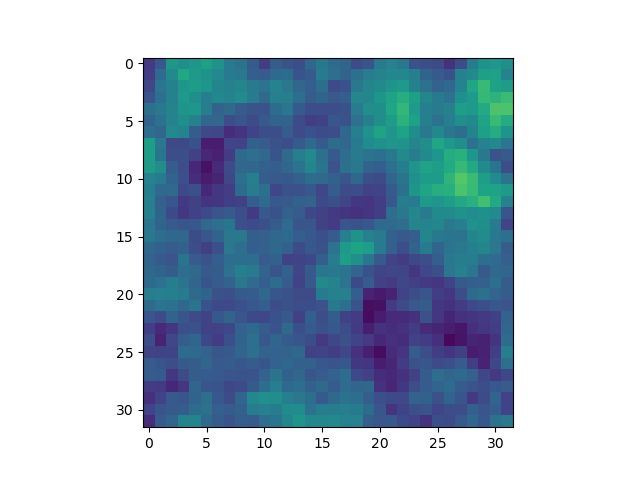
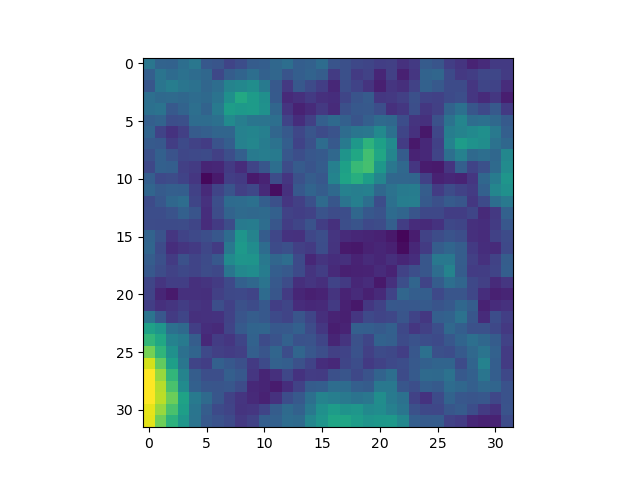
schlather eval model 2 data

Changed region(s): [[0.2188, 0.125, 0.8125, 0.9062]]

diff --git a/brown_resnick/sde_diffusion/masked/unparameterized_masked_score/evaluation/diffusion_generation/conditional_mask_data_generation.py b/brown_resnick/sde_diffusion/masked/unparameterized_masked_score/evaluation/diffusion_generation/conditional_mask_data_generation.py
@@ -154,7 +154,7 @@ number_of_replicates = 1
 seed_value = 7592
 ref_img = np.log(generate_schlather_process(range_value, smooth_value, seed_value, number_of_replicates, n))
 ref_img = th.from_numpy(ref_img.reshape((1,n,n))).to(device)
-p = .025
+p = .05
 mask = (th.bernoulli(p*th.ones(1,1,n,n))).to(device)
 
 for i in range(0, 4):
@@ -165,13 +165,13 @@ for i in range(0, 4):
                                           replicates_per_call, calls)
 
     partially_observed = (mask*ref_img).detach().cpu().numpy().reshape((n,n))
-    np.save("data/schlather/model2/ref_image2/ref_image.npy", ref_img.detach().cpu().numpy().reshape((n,n)))
-    np.save("data/schlather/model2/ref_image2/diffusion/model2_beta_min_max_01_20_random025_250_" + str(i) + ".npy", conditional_samples)
-    np.save("data/schlather/model2/ref_image2/partially_observed_field.npy", partially_observed.reshape((n,n)))
-    np.save("data/schlather/model2/ref_image2/mask.npy", mask.int().detach().cpu().numpy().reshape((n,n)))
-    np.save("data/schlather/model2/ref_image2/seed_value.npy", np.array([int(seed_value)]))
+    np.save("data/schlather/model2/ref_image3/ref_image.npy", ref_img.detach().cpu().numpy().reshape((n,n)))
+    np.save("data/schlather/model2/ref_image3/diffusion/model2_beta_min_max_01_20_random025_250_" + str(i) + ".npy", conditional_samples)
+    np.save("data/schlather/model2/ref_image3/partially_observed_field.npy", partially_observed.reshape((n,n)))
+    np.save("data/schlather/model2/ref_image3/mask.npy", mask.int().detach().cpu().numpy().reshape((n,n)))
+    np.save("data/schlather/model2/ref_image3/seed_value.npy", np.array([int(seed_value)]))
 
-    plot_spatial_field(ref_img.detach().cpu().numpy().reshape((n,n)), -2, 6, "data/schlather/model2/ref_image2/ref_image.png")
-    plot_spatial_field((conditional_samples[0,:,:,:]).numpy().reshape((n,n)), -2, 6, "data/schlather/model2/ref_image2/diffusion/visualizations/conditional_sample_0.png")
+    plot_spatial_field(ref_img.detach().cpu().numpy().reshape((n,n)), -2, 6, "data/schlather/model2/ref_image3/ref_image.png")
+    plot_spatial_field((conditional_samples[0,:,:,:]).numpy().reshape((n,n)), -2, 6, "data/schlather/model2/ref_image3/diffusion/visualizations/conditional_sample_0.png")
     plot_masked_spatial_field(spatial_field = ref_img.detach().cpu().numpy().reshape((n,n)),
-                   vmin = -2, vmax = 6, mask = mask.int().float().detach().cpu().numpy().reshape((n,n)), figname = "data/schlather/model2/ref_image2/partially_observed_field.png")
+                   vmin = -2, vmax = 6, mask = mask.int().float().detach().cpu().numpy().reshape((n,n)), figname = "data/schlather/model2/ref_image3/partially_observed_field.png")
